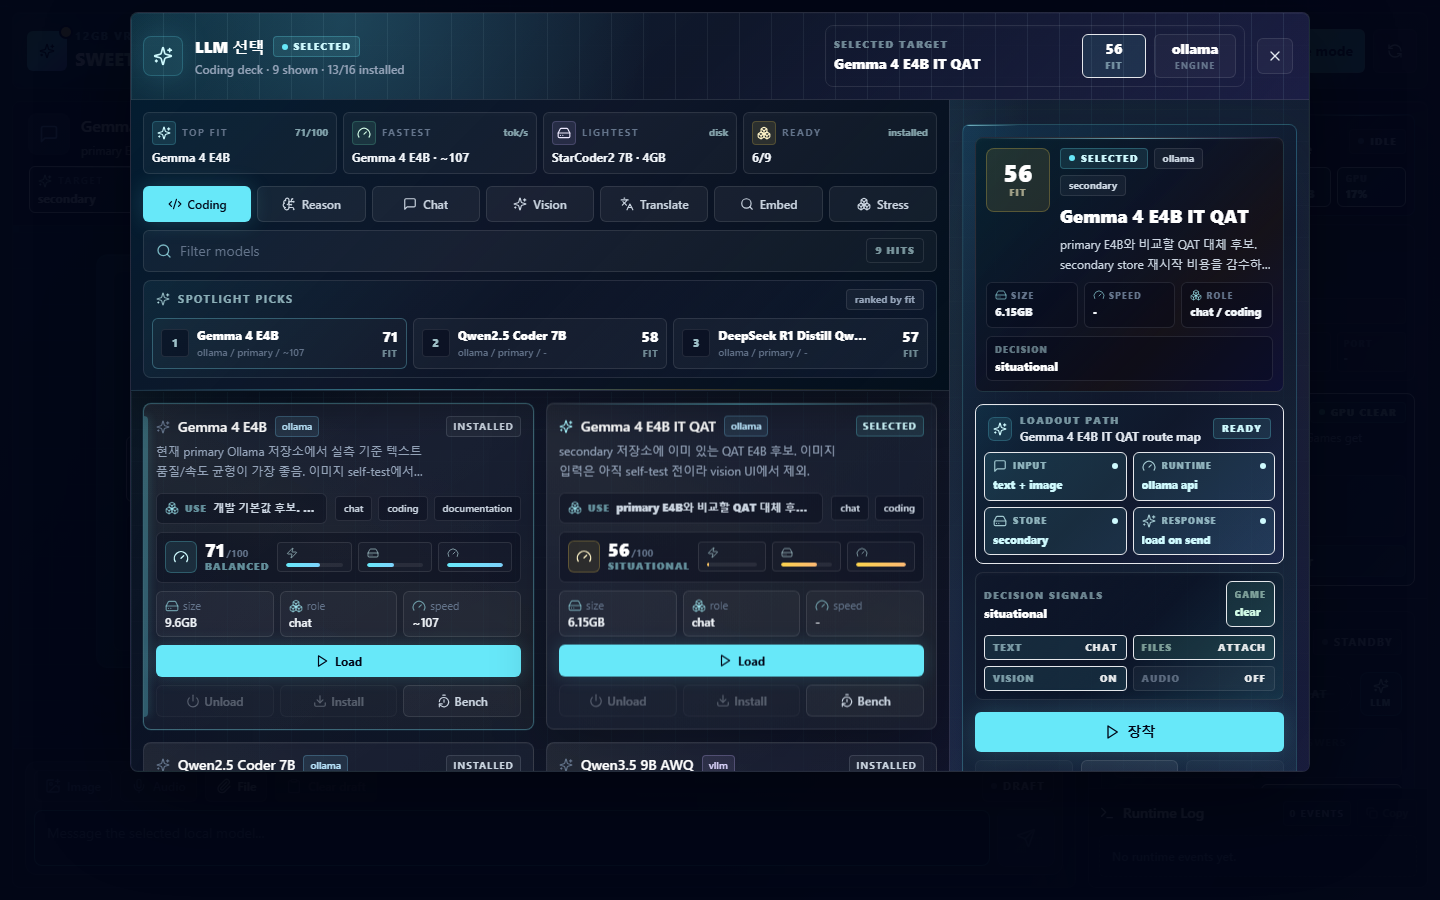
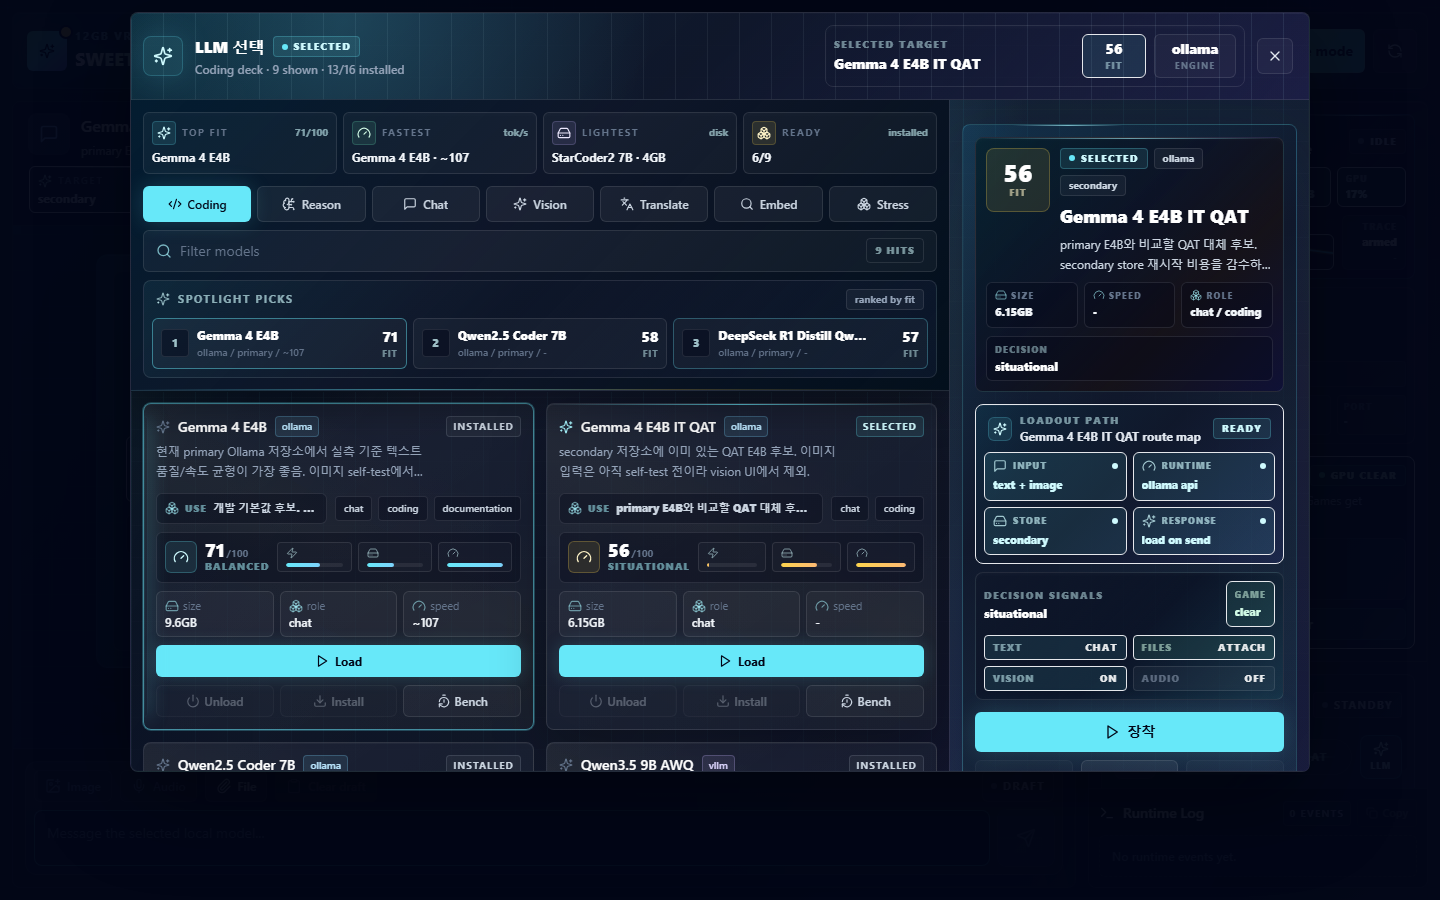
Add SWEET12 runtime signal trace

diff --git a/apps/web/src/components/StatusPanel.tsx b/apps/web/src/components/StatusPanel.tsx
@@ -124,6 +124,18 @@ function RuntimeCommandHeader({
   const target = loading ? "scanning stores" : runtime.activeModelName ?? selectedModel?.displayName ?? "no target";
   const engine = loading ? "scanner" : runtime.runtime ?? selectedModel?.runtime ?? "none";
   const disk = loading ? "scan" : diskFree === null ? "-" : `${diskFree}GB`;
+  const speed = selectedModel?.bench?.avgTps ?? selectedModel?.expectedTps ?? 0;
+  const speedLabel = selectedModel?.bench ? `${selectedModel.bench.avgTps.toFixed(0)} t/s` : selectedModel?.expectedTps ? `~${selectedModel.expectedTps}` : "-";
+  const traceMode = loading ? "scan" : displayStatus === "ready" ? "live" : selectedModel?.installed ? "armed" : displayStatus;
+  const stateLevel = displayStatus === "ready" ? 88 : ["starting", "warming", "benchmarking", "installing"].includes(displayStatus) ? 70 : displayStatus === "failed" ? 18 : selectedModel?.installed ? 48 : 28;
+  const traceValues = [
+    stateLevel,
+    Math.max(14, Math.min(94, speed * 0.54 || stateLevel * 0.72)),
+    loading ? 44 : gpuUsed ?? 18,
+    diskFree === null ? 38 : Math.max(18, Math.min(94, diskFree / 2)),
+    Math.max(16, Math.min(92, stateLevel * 0.82 + (selectedModel?.installed ? 12 : 0)))
+  ];
+  const tracePoints = traceValues.map((value, index) => `${10 + index * 37},${40 - value * 0.32}`).join(" ");
 
   return (
     <div
@@ -152,6 +164,20 @@ function RuntimeCommandHeader({
         <CommandSignal label="engine" value={engine} active={engine !== "none"} />
         <CommandSignal label="disk" value={disk} active={loading || diskFree !== null} warn={diskLow} />
         <CommandSignal label="gpu" value={loading ? "scan" : gpuUsed === undefined ? "-" : `${gpuUsed}%`} active={loading || gpuUsed !== undefined} />
+      </div>
+      <div className="mt-2 grid grid-cols-[minmax(0,1fr)_64px] items-end gap-2" data-testid="runtime-signal-trace">
+        <div className="relative h-9 overflow-hidden rounded-md border border-cyan-300/12 bg-slate-950/42">
+          <div className="absolute inset-0 bg-[linear-gradient(rgba(148,163,184,0.07)_1px,transparent_1px),linear-gradient(90deg,rgba(148,163,184,0.055)_1px,transparent_1px)] bg-[length:22px_18px]" />
+          <svg className="relative h-full w-full" viewBox="0 0 158 44" preserveAspectRatio="none" aria-hidden="true">
+            <polyline points={tracePoints} fill="none" stroke="rgba(252,211,77,0.24)" strokeWidth="5.2" strokeLinecap="round" strokeLinejoin="round" />
+            <polyline points={tracePoints} fill="none" stroke="rgba(103,232,249,0.86)" strokeWidth="2.2" strokeLinecap="round" strokeLinejoin="round" />
+          </svg>
+        </div>
+        <div className="rounded-md border border-white/10 bg-white/[0.04] px-2 py-1 text-right">
+          <div className="truncate text-[9px] font-black uppercase tracking-[0.12em] text-cyan-100/45">trace</div>
+          <div className="truncate text-[11px] font-black text-white">{traceMode}</div>
+          <div className="truncate text-[10px] font-bold text-slate-500">{speedLabel}</div>
+        </div>
       </div>
     </div>
   );